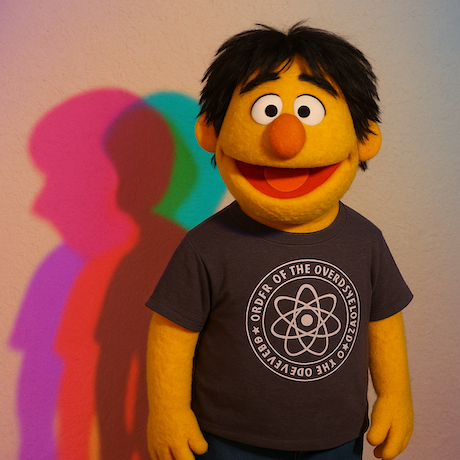
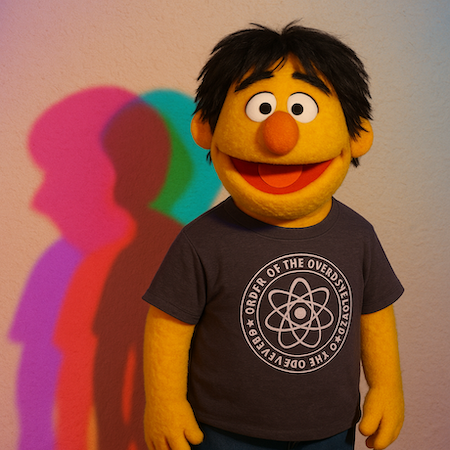
Update profile images and adjust about section image width

Changed region(s): [[0.5289, 0.56, 0.7778, 0.84]]

diff --git a/assets/css/main.css b/assets/css/main.css
@@ -138,7 +138,7 @@ nav li > a {
     text-decoration-thickness: 3px;
 }
 #about img {
-    width: 230px;
+    width: 225px;
     border-radius: 6px;
 }
 #about .text-content {
